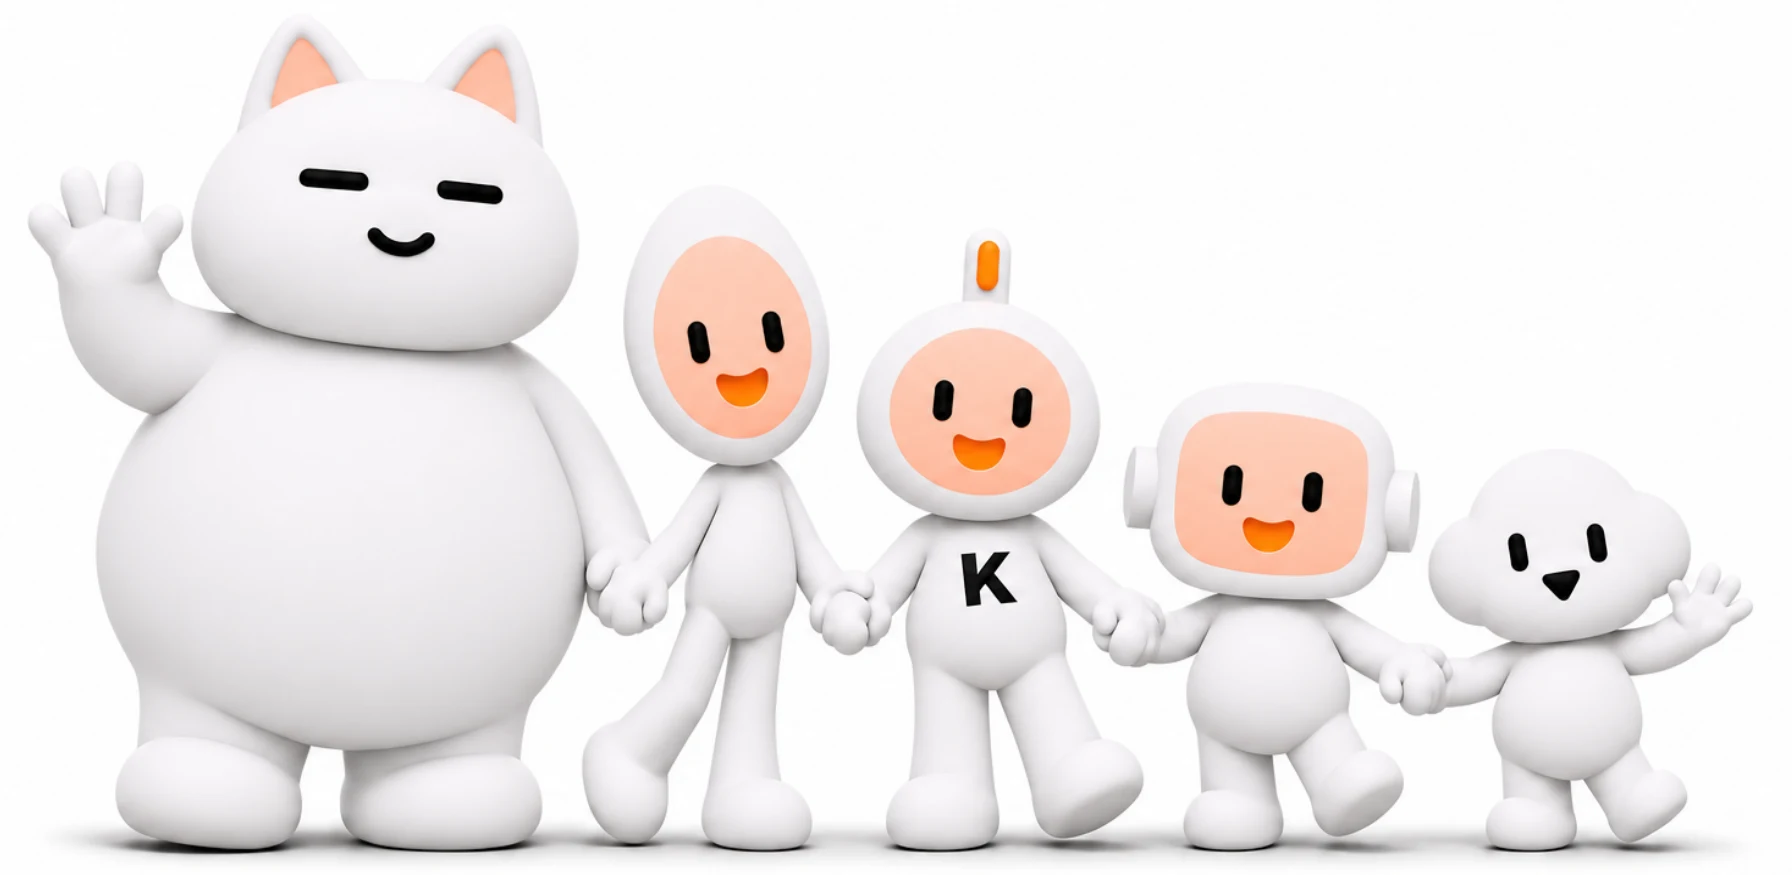
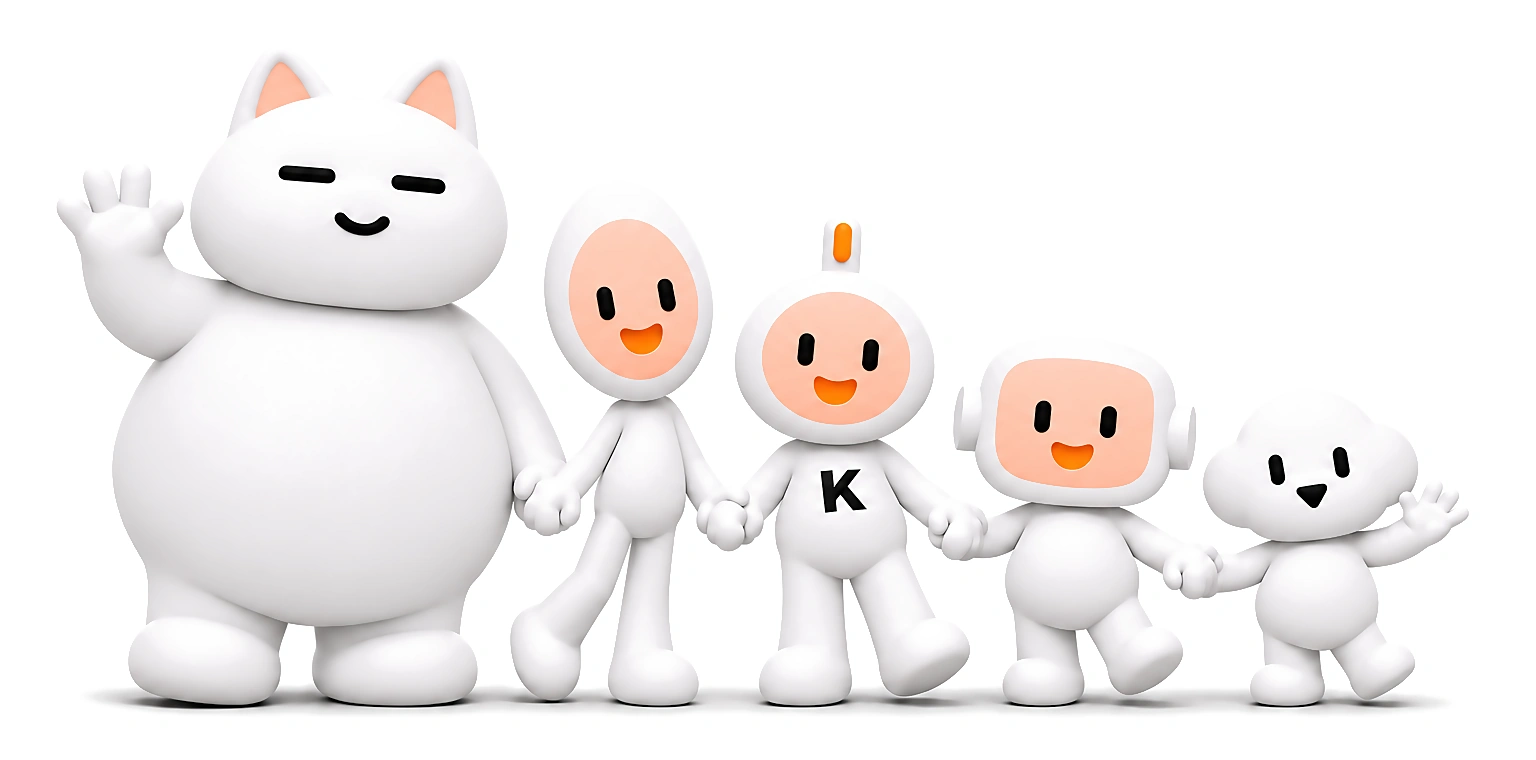
Uniform project card size, bolder project titles, cleaner and smaller KAON Friends 3D hero
Claude-Session: https://claude.ai/code/session_01BFCG5mZW9hgWuvcjPHNUrC

diff --git a/index.html b/index.html
@@ -253,7 +253,7 @@ body.menu-open .cursor svg{color:#222}
 .shot:hover .cap::after,.shot:focus-visible .cap::after{width:100%}
 .shot .cap .no{font-size:12px;letter-spacing:.06em;color:var(--brand);font-variant-numeric:tabular-nums;padding-top:5px}
 .shot .cap .ct{display:grid;gap:6px;min-width:0}
-.shot .cap b{font-size:clamp(18px,1.6vw,23px);font-weight:500;letter-spacing:-.03em;line-height:1.2;color:var(--ink)}
+.shot .cap b{font-size:clamp(18px,1.6vw,23px);font-weight:600;letter-spacing:-.03em;line-height:1.2;color:var(--ink)}
 .shot .cap .mt{display:flex;flex-wrap:wrap;gap:6px 8px;align-items:center;font-size:11.5px;color:var(--ink-2);letter-spacing:.02em}
 .shot .cap .mt i{font-style:normal;padding:3px 9px;border:1px solid var(--line);border-radius:999px;white-space:nowrap}
 .shot .cap .go{width:38px;height:38px;border-radius:50%;border:1px solid var(--line);display:grid;place-items:center;color:var(--ink);transition:background .4s,color .4s,border-color .4s,transform .5s var(--ease)}
@@ -340,16 +340,16 @@ body.menu-open .cursor svg{color:#222}
 .work{cursor:pointer;display:grid;gap:12px;transition:opacity .4s,filter .4s}
 .work.off{opacity:.15;filter:grayscale(1);pointer-events:none}
 .work .frame{position:relative;aspect-ratio:4/3;overflow:hidden;border-radius:4px}
-.work.feat{order:-1;grid-column:1/-1}.work.feat .frame{aspect-ratio:30/11}
+.work.feat{order:-1}
 .work .feat-b{display:inline-block;padding:3px 9px;border-radius:99px;background:#FF7B0F;color:#fff;font-size:11px;letter-spacing:.06em;align-self:center}
-@media (max-width:700px){ .work.feat .frame{aspect-ratio:4/3} }
 .work .frame canvas{transition:transform 1.1s var(--ease)}
 .work:hover .frame canvas,.work:focus-visible .frame canvas{transform:scale(1.06)}
 .work .ov{position:absolute;inset:0;display:flex;justify-content:space-between;align-items:flex-end;padding:14px;color:var(--white);font-size:12px;background:linear-gradient(transparent 55%,rgba(0,0,0,.35));opacity:0;transition:opacity .45s}
 .work .ov .arrow-btn{position:absolute;inset:0;margin:auto;transform:scale(.6);transition:transform .5s var(--ease)}
 .work:hover .ov,.work:focus-visible .ov{opacity:1}
 .work:hover .ov .arrow-btn,.work:focus-visible .ov .arrow-btn{transform:scale(1)}
-.work .cap{display:flex;gap:10px;align-items:baseline;font-size:14px}
+.work .cap{display:flex;gap:10px;align-items:baseline;font-size:14.5px;font-weight:600}
+.work .cap small{font-weight:400}
 .work .cap{position:relative;padding-top:12px;transition:color .4s}
 .work .cap::before,.work .cap::after{content:"";position:absolute;left:0;top:0;height:1px;right:0;background:var(--line)}
 .work .cap::after{right:auto;width:0;background:var(--brand);transition:width .7s var(--ease)}
@@ -2068,6 +2068,7 @@ body.lb-open .cursor{background:#EDEDED}
 .c-rel:focus-visible{outline:2px solid var(--brand);outline-offset:3px}
 .f3-sec{padding-block:clamp(56px,8vw,110px);border-top:1px solid var(--line)}
 .f3-hero{margin-top:clamp(28px,4vw,48px);border-radius:18px;overflow:hidden;background:#fff;box-shadow:0 0 0 1px var(--line)}
+.f3-hero{padding:clamp(28px,5vw,72px) clamp(40px,11vw,190px)}
 .f3-hero img{display:block;width:100%;height:auto}
 .f3-line{border-radius:16px;background:#fff;box-shadow:0 0 0 1px var(--line);padding:clamp(16px,3vw,36px)}
 .f3-line img{display:block;width:100%;height:auto}
@@ -3904,7 +3905,7 @@ go(0);})();
       <div><dt>Version</dt><dd>v3.0<br><small>2026.11 · 3D 전환</small></dd></div>
     </dl>
     <button type="button" class="c-rel f3-rel" data-open-case="3"><small>Related Project</small><b>KAON Friends — 2D 캐릭터 IP 세계관 기획·디자인</b><span aria-hidden="true">→</span></button>
-    <div class="f3-hero"><img src="assets/kf3d/cover-chars.webp" alt="손을 잡고 걷는 가온프렌즈 3D 캐릭터 다섯 명"></div>
+    <div class="f3-hero"><img src="assets/kf3d/cover-chars.webp?v=2" alt="손을 잡고 걷는 가온프렌즈 3D 캐릭터 다섯 명"></div>
   </div></div>
 
   <section class="f3-sec"><div class="wrap"><div class="c">
@@ -4585,7 +4586,7 @@ const wg=document.getElementById('wgrid');
 WORKS.forEach((wk,i)=>{
   const el=document.createElement('article'); el.className='work'+(wk.feat?' feat':''); el.tabIndex=0; el.dataset.i=i; el.dataset.cursor='1';
   el.setAttribute('role','button'); el.setAttribute('aria-label',wk.title+' 자세히 보기');
-  el.innerHTML=`<div class="frame">${wk.img?`<img class="art" src="${wk.feat&&wk.imgW?wk.imgW:wk.img}" alt="" style="object-fit:cover;position:absolute;inset:0">`:'<canvas class="art"></canvas>'}<div class="ov"><span>${wk.tag}</span><span>${wk.period}</span><span class="arrow-btn" aria-hidden="true">${ARROW}</span></div></div>
+  el.innerHTML=`<div class="frame">${wk.img?`<img class="art" src="${wk.img}" alt="" style="object-fit:cover;position:absolute;inset:0">`:'<canvas class="art"></canvas>'}<div class="ov"><span>${wk.tag}</span><span>${wk.period}</span><span class="arrow-btn" aria-hidden="true">${ARROW}</span></div></div>
     <div class="cap">${wk.feat?'<span class="feat-b">Main Project</span>':''}${wk.title} <small>${wk.sub}</small></div><p class="wkr">${wk.kr}</p>`;
   wg.appendChild(el);
   if(!wk.img) addArt(el.querySelector('canvas'),'scene',SCENES[i%SCENES.length]);
